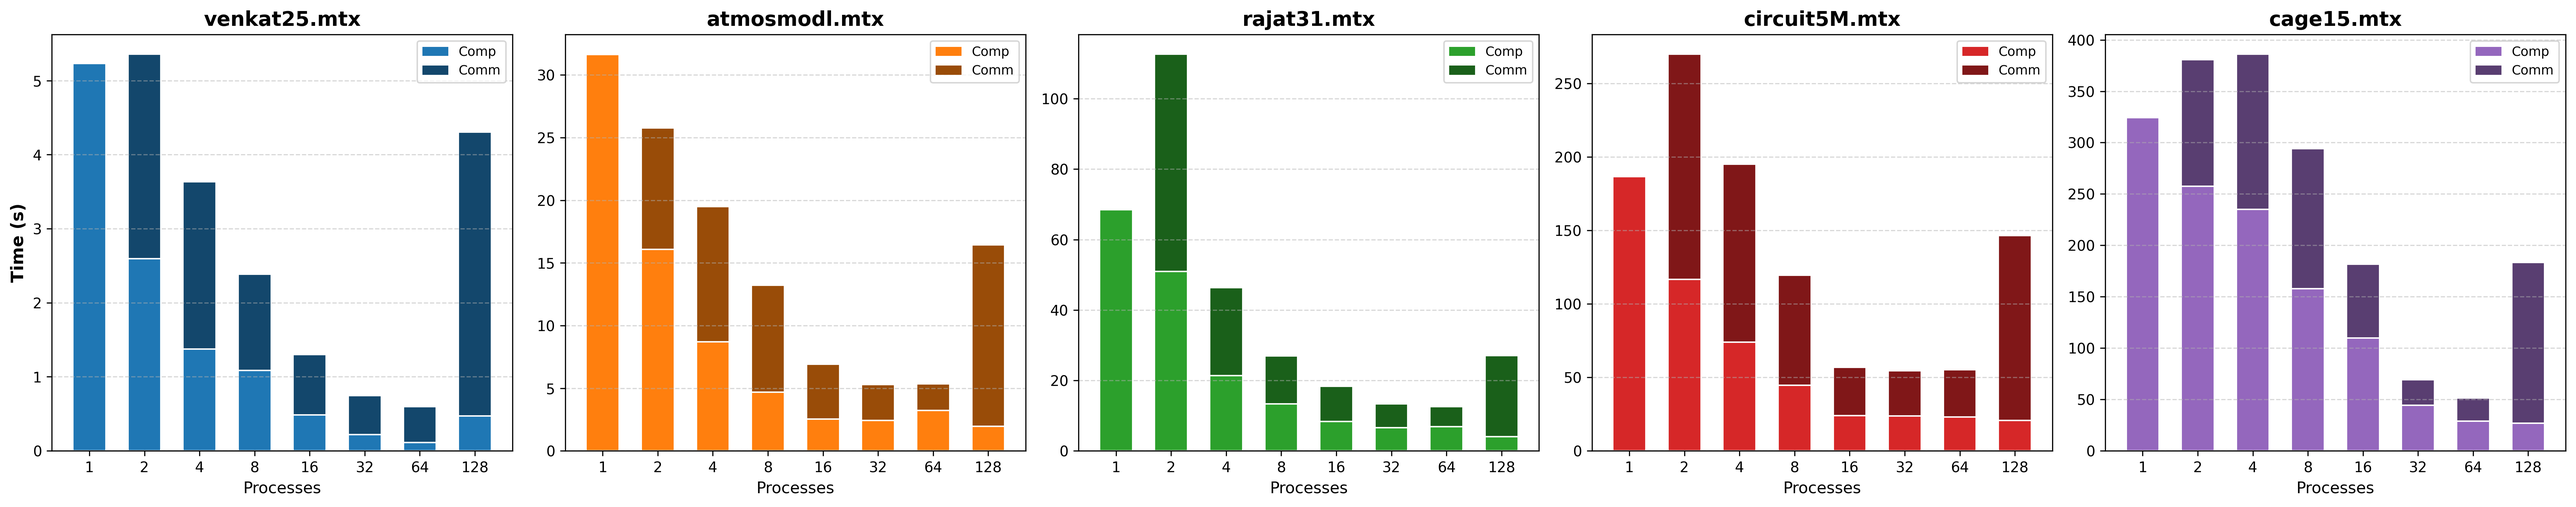
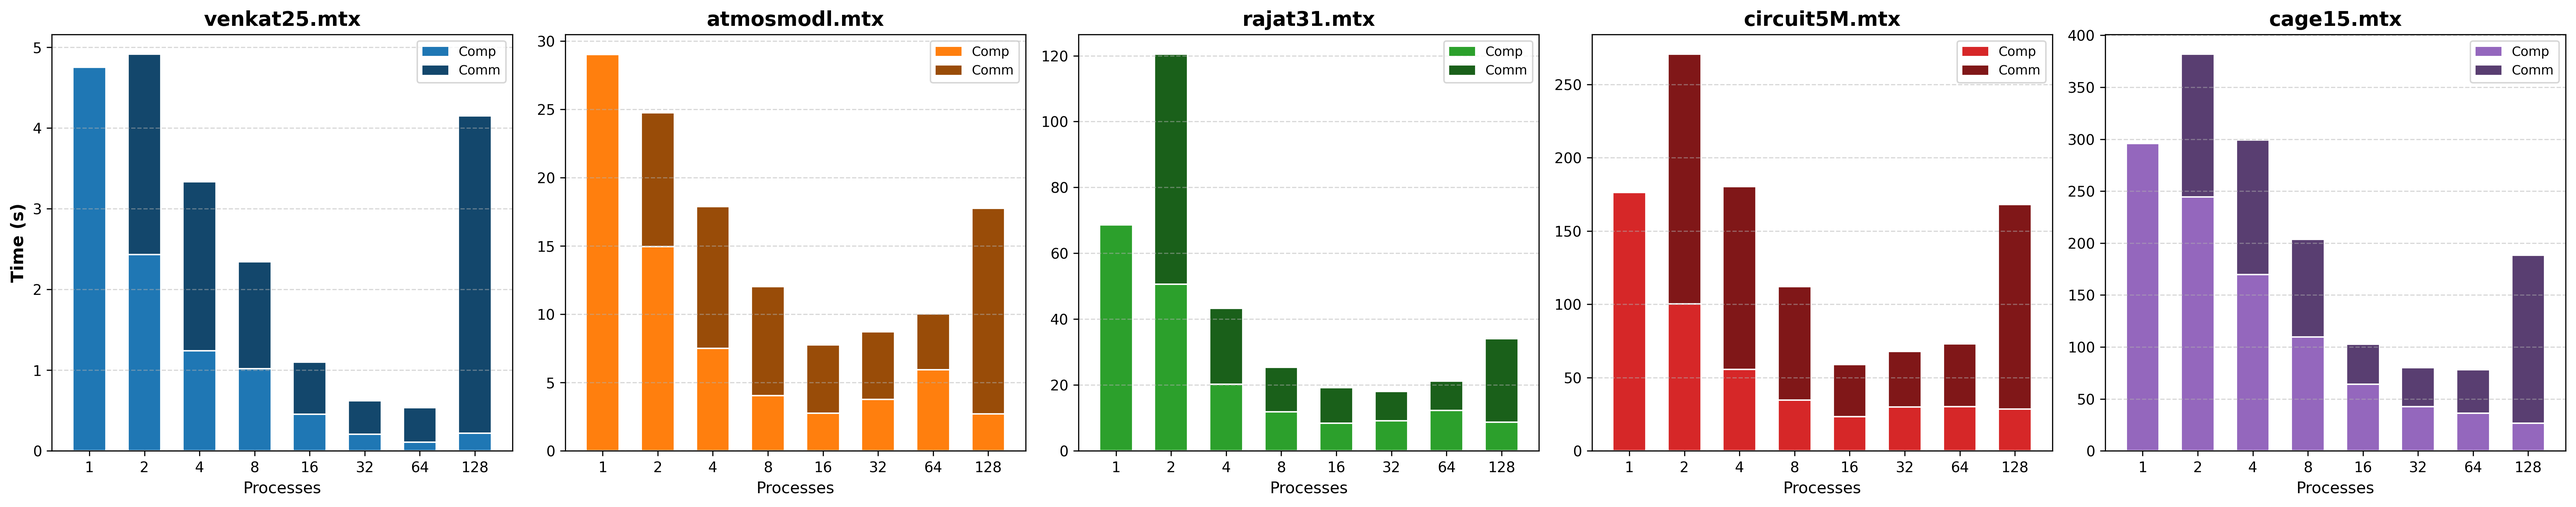
modified readme and time measurement

diff --git a/D2/src/main.c b/D2/src/main.c
@@ -9,11 +9,13 @@
 #include <mpi.h>
 #include <time.h>
 
-int main(int argc, char *argv[]){
-    double start, end;
-    double time_comm = 0.0;
-    double time_comp = 0.0;
+// for qsort
+int compare_doubles(const void *a, const void *b);
 
+// calculate percentile from sorted array 
+double percentile(double *sorted_array, int n, double p);
+
+int main(int argc, char *argv[]){
     int rank, size;
 
     MPI_Init(&argc, &argv);
@@ -91,19 +93,23 @@ int main(int argc, char *argv[]){
 
     MPI_Barrier(MPI_COMM_WORLD); // sync before counting time
 
-    int iterations = 10;
+    int iterations = 100;
+    double start, end;
+    double *times_comm = (double*)malloc(iterations * sizeof(double));
+    double *times_comp = (double*)malloc(iterations * sizeof(double));
+
     for(int i=0; i<iterations; i++){
 
         GET_TIME(start);
         ghost_exchange_values(&gp, v_local, MPI_COMM_WORLD);
         GET_TIME(end);
 
-        time_comm += (end - start);
+        times_comm[i] = (end - start) * 1000.0; //ms
 
         GET_TIME(start);
         ghost_local_SpMV(local.my_M, local.my_row_pnt, local.my_cols, local.my_vals, &gp, v_local, y);
         GET_TIME(end);
-        time_comp += (end - start);
+        times_comp[i] = (end - start) * 1000.0; //ms
     }
 
     double checksum = 0.0;
@@ -115,16 +121,19 @@ int main(int argc, char *argv[]){
 
     MPI_Barrier(MPI_COMM_WORLD);
 
-    double avg_comm = (time_comm * 1000.0) / iterations;
-    double avg_comp = (time_comp * 1000.0) / iterations;
+    qsort(times_comm, iterations, sizeof(double), compare_doubles);
+    qsort(times_comp, iterations, sizeof(double), compare_doubles);
+
+    double p90_comm = percentile(times_comm, iterations, 0.90);
+    double p90_comp = percentile(times_comp, iterations, 0.90);
 
     // Calculate the max time among all processes
     //MPI_Reduce( const void* sendbuf , void* recvbuf , MPI_Count count , MPI_Datatype datatype , MPI_Op op , int root , MPI_Comm comm);
 
     double max_comm = 0.0;
     double max_comp = 0.0;
-    MPI_Reduce(&avg_comm, &max_comm, 1, MPI_DOUBLE, MPI_MAX, 0, MPI_COMM_WORLD);
-    MPI_Reduce(&avg_comp, &max_comp, 1, MPI_DOUBLE, MPI_MAX, 0, MPI_COMM_WORLD);
+    MPI_Reduce(&p90_comm, &max_comm, 1, MPI_DOUBLE, MPI_MAX, 0, MPI_COMM_WORLD);
+    MPI_Reduce(&p90_comp, &max_comp, 1, MPI_DOUBLE, MPI_MAX, 0, MPI_COMM_WORLD);
 
     double local_mem = (local.my_nz * sizeof(double) + local.my_nz * sizeof(int) + (local.my_M+1) * sizeof(int) + local.my_M * sizeof(double)) / 1024.0 / 1024.0;
     double global_mem;
@@ -171,4 +180,24 @@ int main(int argc, char *argv[]){
     free(displs_vec);
     MPI_Finalize();
     return 0;
+}
+
+// for qsort
+int compare_doubles(const void *a, const void *b) {
+    double diff = (*(double*)a - *(double*)b);
+    if (diff < 0) return -1;
+    if (diff > 0) return 1;
+    return 0;
+}
+
+// calculate percentile from sorted array 
+double percentile(double *sorted_array, int n, double p) {
+    double index = p * (n - 1);
+    int lower = (int)index;
+    int upper = lower + 1;
+    
+    if (upper >= n) return sorted_array[n-1];
+    
+    double weight = index - lower;
+    return sorted_array[lower] * (1.0 - weight) + sorted_array[upper] * weight;
 }

diff --git a/D2/README.md b/D2/README.md
@@ -1,1 +1,174 @@
-D2 readme
+<a name="readme-top"></a>
+
+<div align="center">
+
+</div>
+
+<br />
+<div align="center">
+  <a href="https://github.com/AgneseMarchesini/PARCO-Computing-2026-244658.git">
+  </a>
+
+  <h1 align="center">Sparse Matrix-Vector Multiplication Optimization using MPI</h1>
+
+  <p align="center">
+    Marchesini Agnese 244658
+  </p>
+</div>
+
+<!-- TABLE OF CONTENTS -->
+<details>
+  <summary>Table of Contents</summary>
+  <ol>
+    <li>
+      <a href="#about-the-project">About The Project</a>
+    </li>
+    <li>
+      <a href="#project-structure">Project Structure</a></li>
+    </li>
+    <li>
+      <a href="#reproducibility">Reproducibility</a></li>
+    </li>
+    <li><a href="#contact">Contact</a></li>
+  </ol>
+</details>
+
+---
+
+<!-- ABOUT THE PROJECT -->
+## About The Project
+
+Efficiently parallelizing Sparse Matrix-Vector (SpMV) multiplication is a significant challenge due to workload imbalance and irregular memory access patterns.
+
+In this project we use MPI to benchmark communication and computation time, GFLOPs and communication volume per rank. We analyzed Strong Scaling metrics on real matrices from the [SuiteSparse Matrix Collection](https://sparse.tamu.edu/) and Weak Scaling on syntethic matrices.
+
+### Key Results
+
+* **Performance:** a
+* **Bottleneck:** b
+
+<p align="right">(<a href="#readme-top">back to top</a>)</p>
+
+## Project Structure
+
+```text
+  .
+  ├── data/                            # Matrix market files (.mtx) used for testing
+  |   ├── strong_scaling_matrices      # 
+  │   └── weak_scaling_matrices        # 
+  ├── plots/                           # Generated performance graphs
+  ├── results/                         # Benchmark CSV outputs
+  ├── scripts/                         # Helper scripts
+  │   ├── *_scaling.pbs                # Job submissions
+  │   ├── *_benchmark.sh               # 
+  │   ├── generate_weak_matrices.py    # Python script for synthetic matrices
+  │   └── plots_*.py                   # Python scripts for generating plots
+  ├── src/                             # Source code
+  │   ├── main.c                       # Main code where SpMV is used
+  │   ├── mmio.c                       # Matrix Market I/O helper
+  │   ├── distribution.c               # 
+  │   ├── ghost_emtries.c              # 
+  |   └── matrix.c                     # SpMV implementation
+  └── README.md
+```
+
+<p align="right">(<a href="#readme-top">back to top</a>)</p>
+
+## Reproducibility
+
+### Prerequisites and Dependencies
+
+Before running the project, ensure you have the following installed:
+
+!!!!!!!
+
+* **GCC Compiler** with **OpenMP** support, required for parallel execution;
+
+* **NIST Matrix Market I/O**: The project uses the `mmio.c` and `mmio.h` library (included in `src/`) for parsing `.mtx` files.
+
+* (Optional, only for plotting) **Python**;
+
+### Instructions
+
+Here are the instructions to reproduce the project locally or in the Unitn cluster:
+
+!!!!!!!!!!!!!!!!
+
+1. Clone the repo:
+
+```sh
+    git clone https://github.com/AgneseMarchesini/PARCO-Computing-2026-244658.git
+```
+
+2. Download manually from the `data` github directory the five matrices used;
+
+3. Replace the existing pointers in the cloned `data` folder with the actual matrix files;
+
+4. Now you have two options based on where you want to run the program:
+
+    a. If you want to run it locally you can run the shell scripts, making sure you have executed the permissions:
+
+      ```sh
+          chmod +x /scripts/*.sh
+          /scripts/time_benchmark.sh 
+          /scripts/perf_benchmark.sh
+      ```
+
+    b. If you are in the cluster you can submit the jobs with:
+
+      ```sh
+          qsub /scripts/pbs_script_perf.pbs
+          qsub /scripts/pbs_scripts_time.pbs
+      ```
+
+    c. If you prefer to run specific tests manually without the scripts:
+
+      * Compile
+
+          ```sh
+              gcc -Wall -O3 -fopenmp ./src/main.c ./src/mmio.c ./src/matrix.c -o spmv -lm
+          ```
+
+      * Run
+
+          ```sh
+              ./spmv <matrix_file.mtx> <scheduling mode> <chunk size> <threads> <number_of_runs>
+              # Scheduling modes: seq (runs the sequential version), static, dynamic, guided
+
+              # Example:
+              ./spmv data/af23560.mtx static 100 16 10
+          ```
+      
+      Notice: in this case the results will be printed to standard output, they won't show up in the `/results` folder as the following steps mention.
+
+5. Results will be saved in the `/results` folder in csv format;
+
+6. To plot the results you can use the python scripts in the `/scripts` directory, they will create visual plots in the `/plots` folder.
+
+### Datasets
+The project benchmarks the following matrices from the [SuiteSparse Matrix Collection](https://sparse.tamu.edu/):
+
+| Matrix Name | Rows | Columns | Non-zeros | Sparsity [%] | File size [KB] |
+| :--- | :--- | :--- | :--- | :--- | :--- |
+| **af23560** | 23,560 | 23,560 | 460,598 | 0.08298 | 15,164 |
+| **twotone** | 120,750 | 120,750 | 1,206,265 | 0.00827 | 24,107 |
+| **tmt_unsym** | 917,825 | 917,825 | 4,584,801 | 0.00054 | 145,259 |
+| **atmosmodl** | 1,489,752 | 1,489,752 | 10,319,760 | 0.00046 | 214,022 |
+| **Freescale1** | 3,428,755 | 3,428,755 | 17,052,626 | 0.00015 | 632,885 |
+
+**Note:** Ensure the downloaded `.mtx` files are placed inside the `data/` directory.
+
+<p align="right">(<a href="#readme-top">back to top</a>)</p>
+
+<!-- CONTACT -->
+## Contact
+
+Agnese Marchesini
+
+Student ID: 244658
+
+Email: agnese.marchesini-1@unitn.it
+
+Project Link: [https://github.com/AgneseMarchesini/PARCO-Computing-2026-244658.git](https://github.com/AgneseMarchesini/PARCO-Computing-2026-244658.git)
+
+<p align="right">(<a href="#readme-top">back to top</a>)</p>

diff --git a/D1/README.md b/D1/README.md
@@ -9,7 +9,7 @@
   <a href="https://github.com/AgneseMarchesini/PARCO-Computing-2026-244658.git">
   </a>
 
-  <h1 align="center">Sparse Matrix-Vector Multiplication Optimization</h1>
+  <h1 align="center">Sparse Matrix-Vector Multiplication Optimization using OpenMP</h1>
 
   <p align="center">
     Marchesini Agnese 244658
